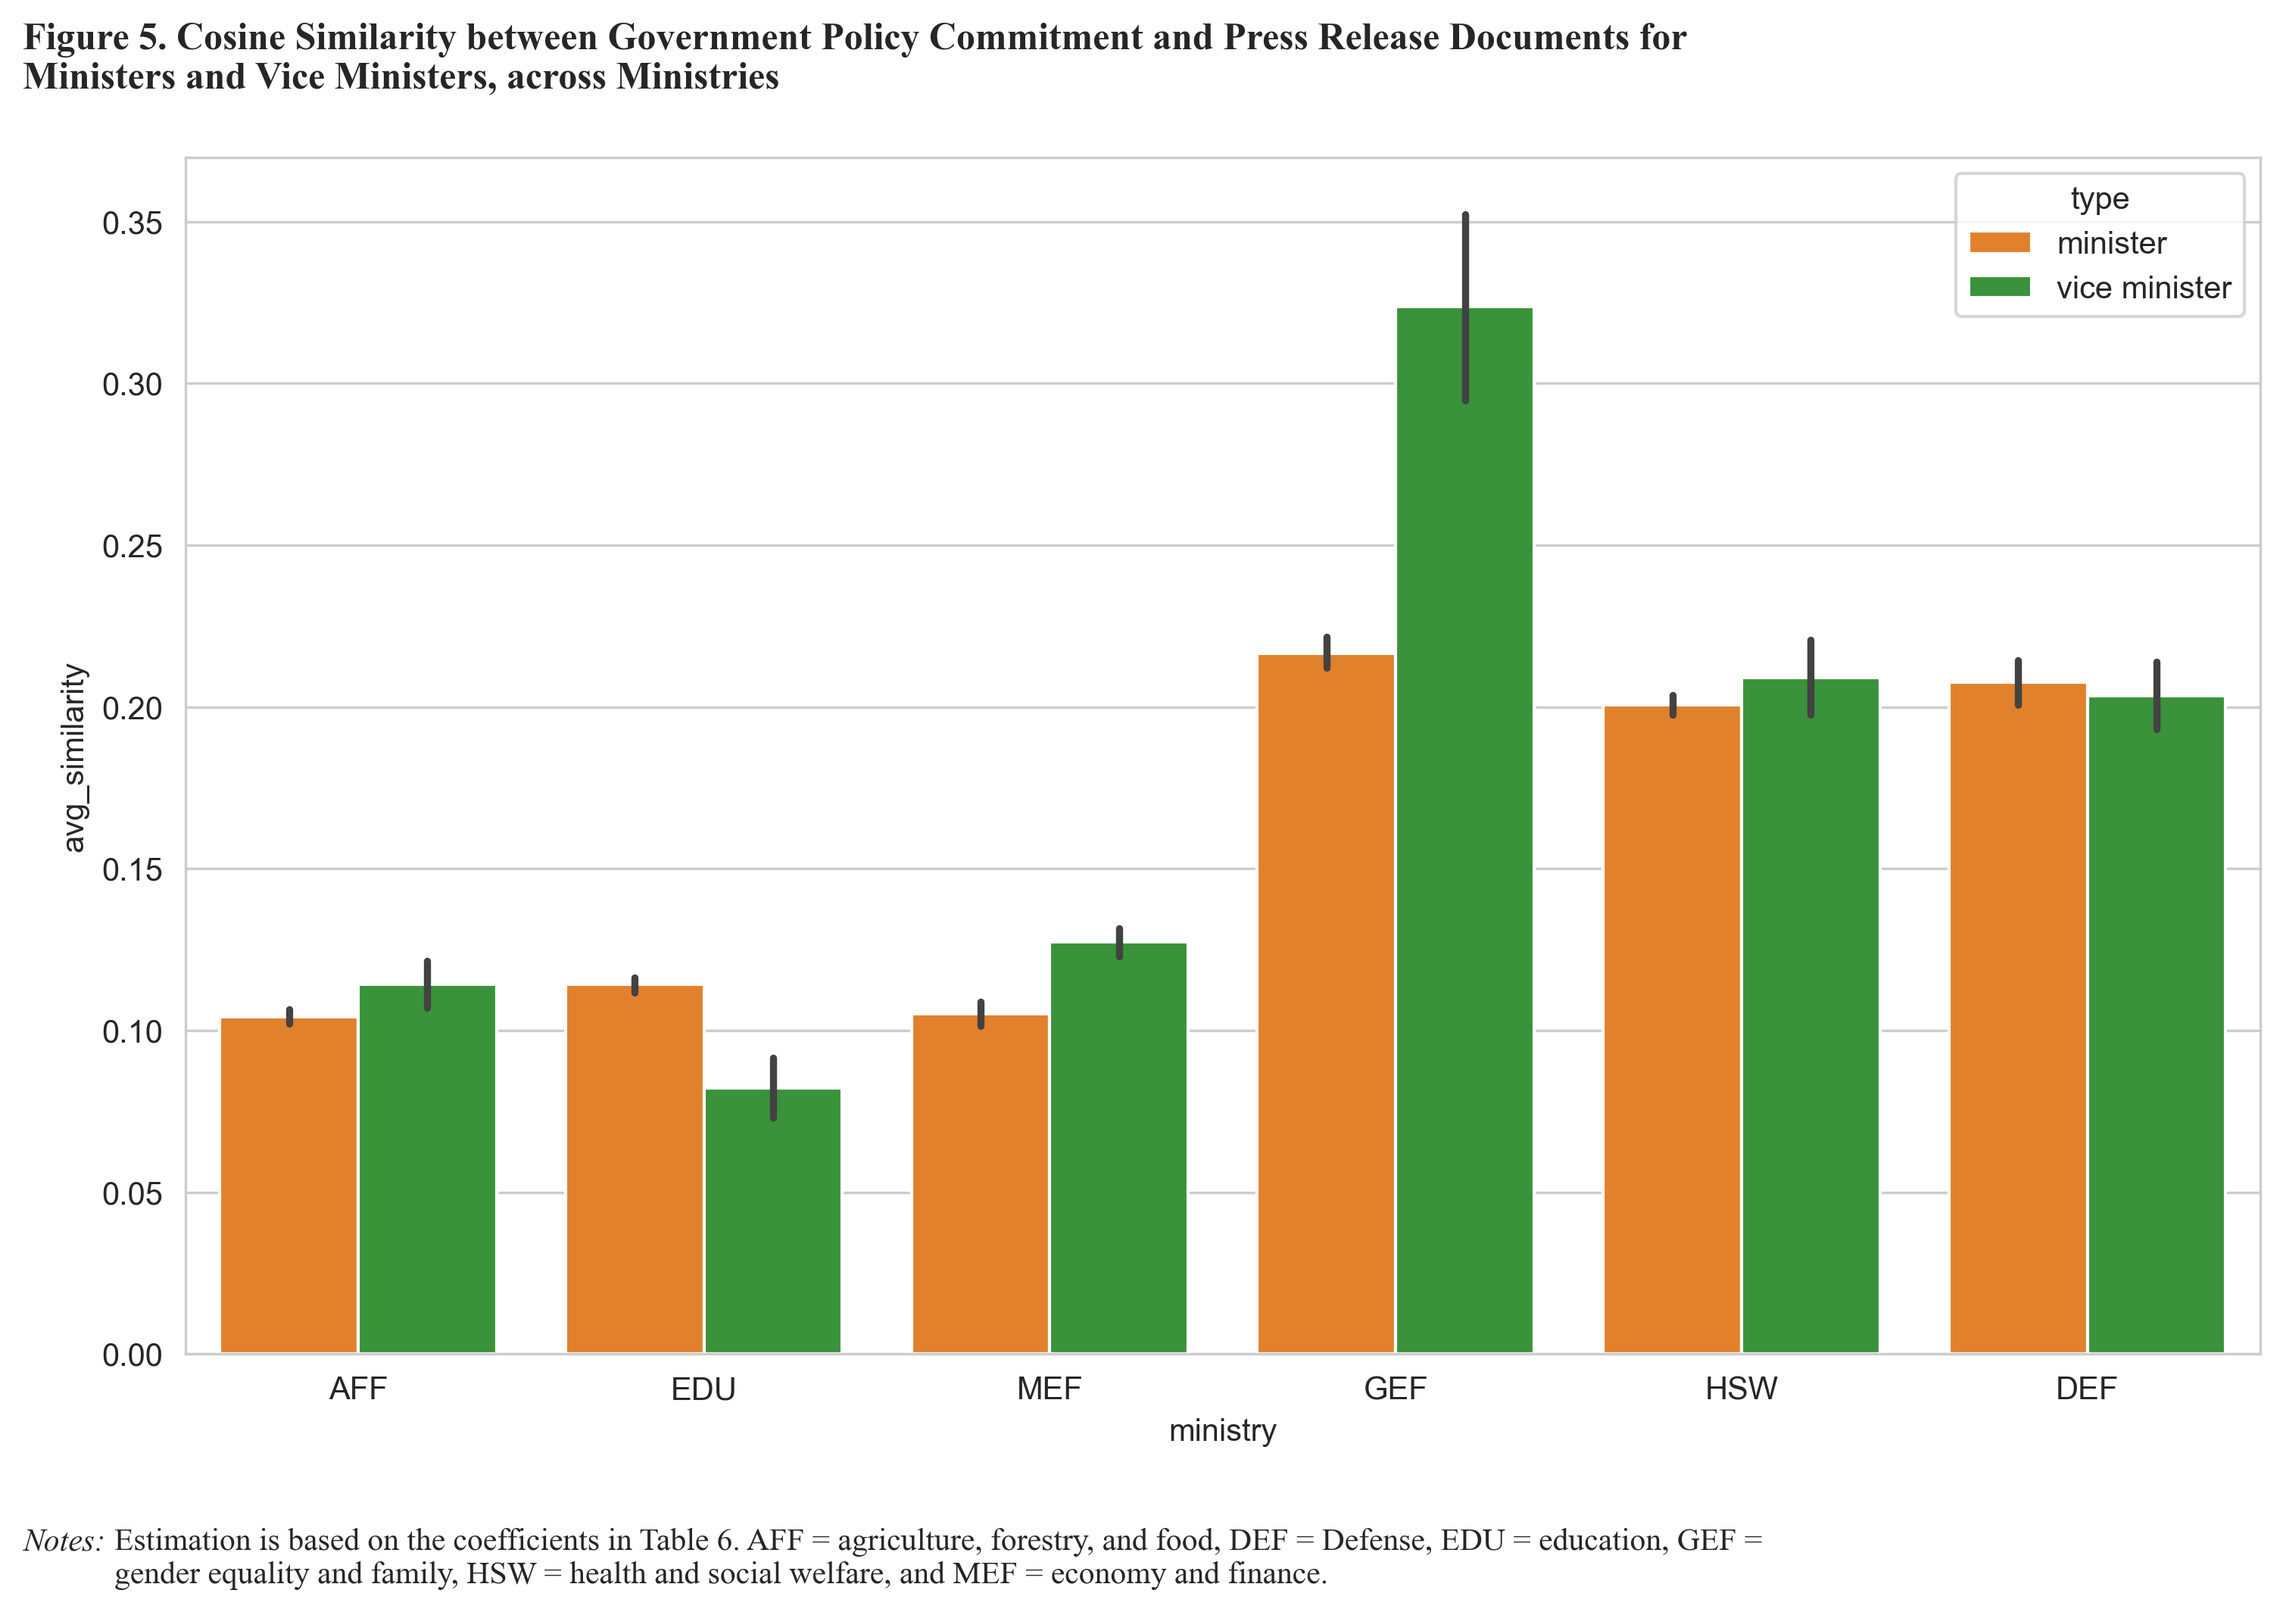
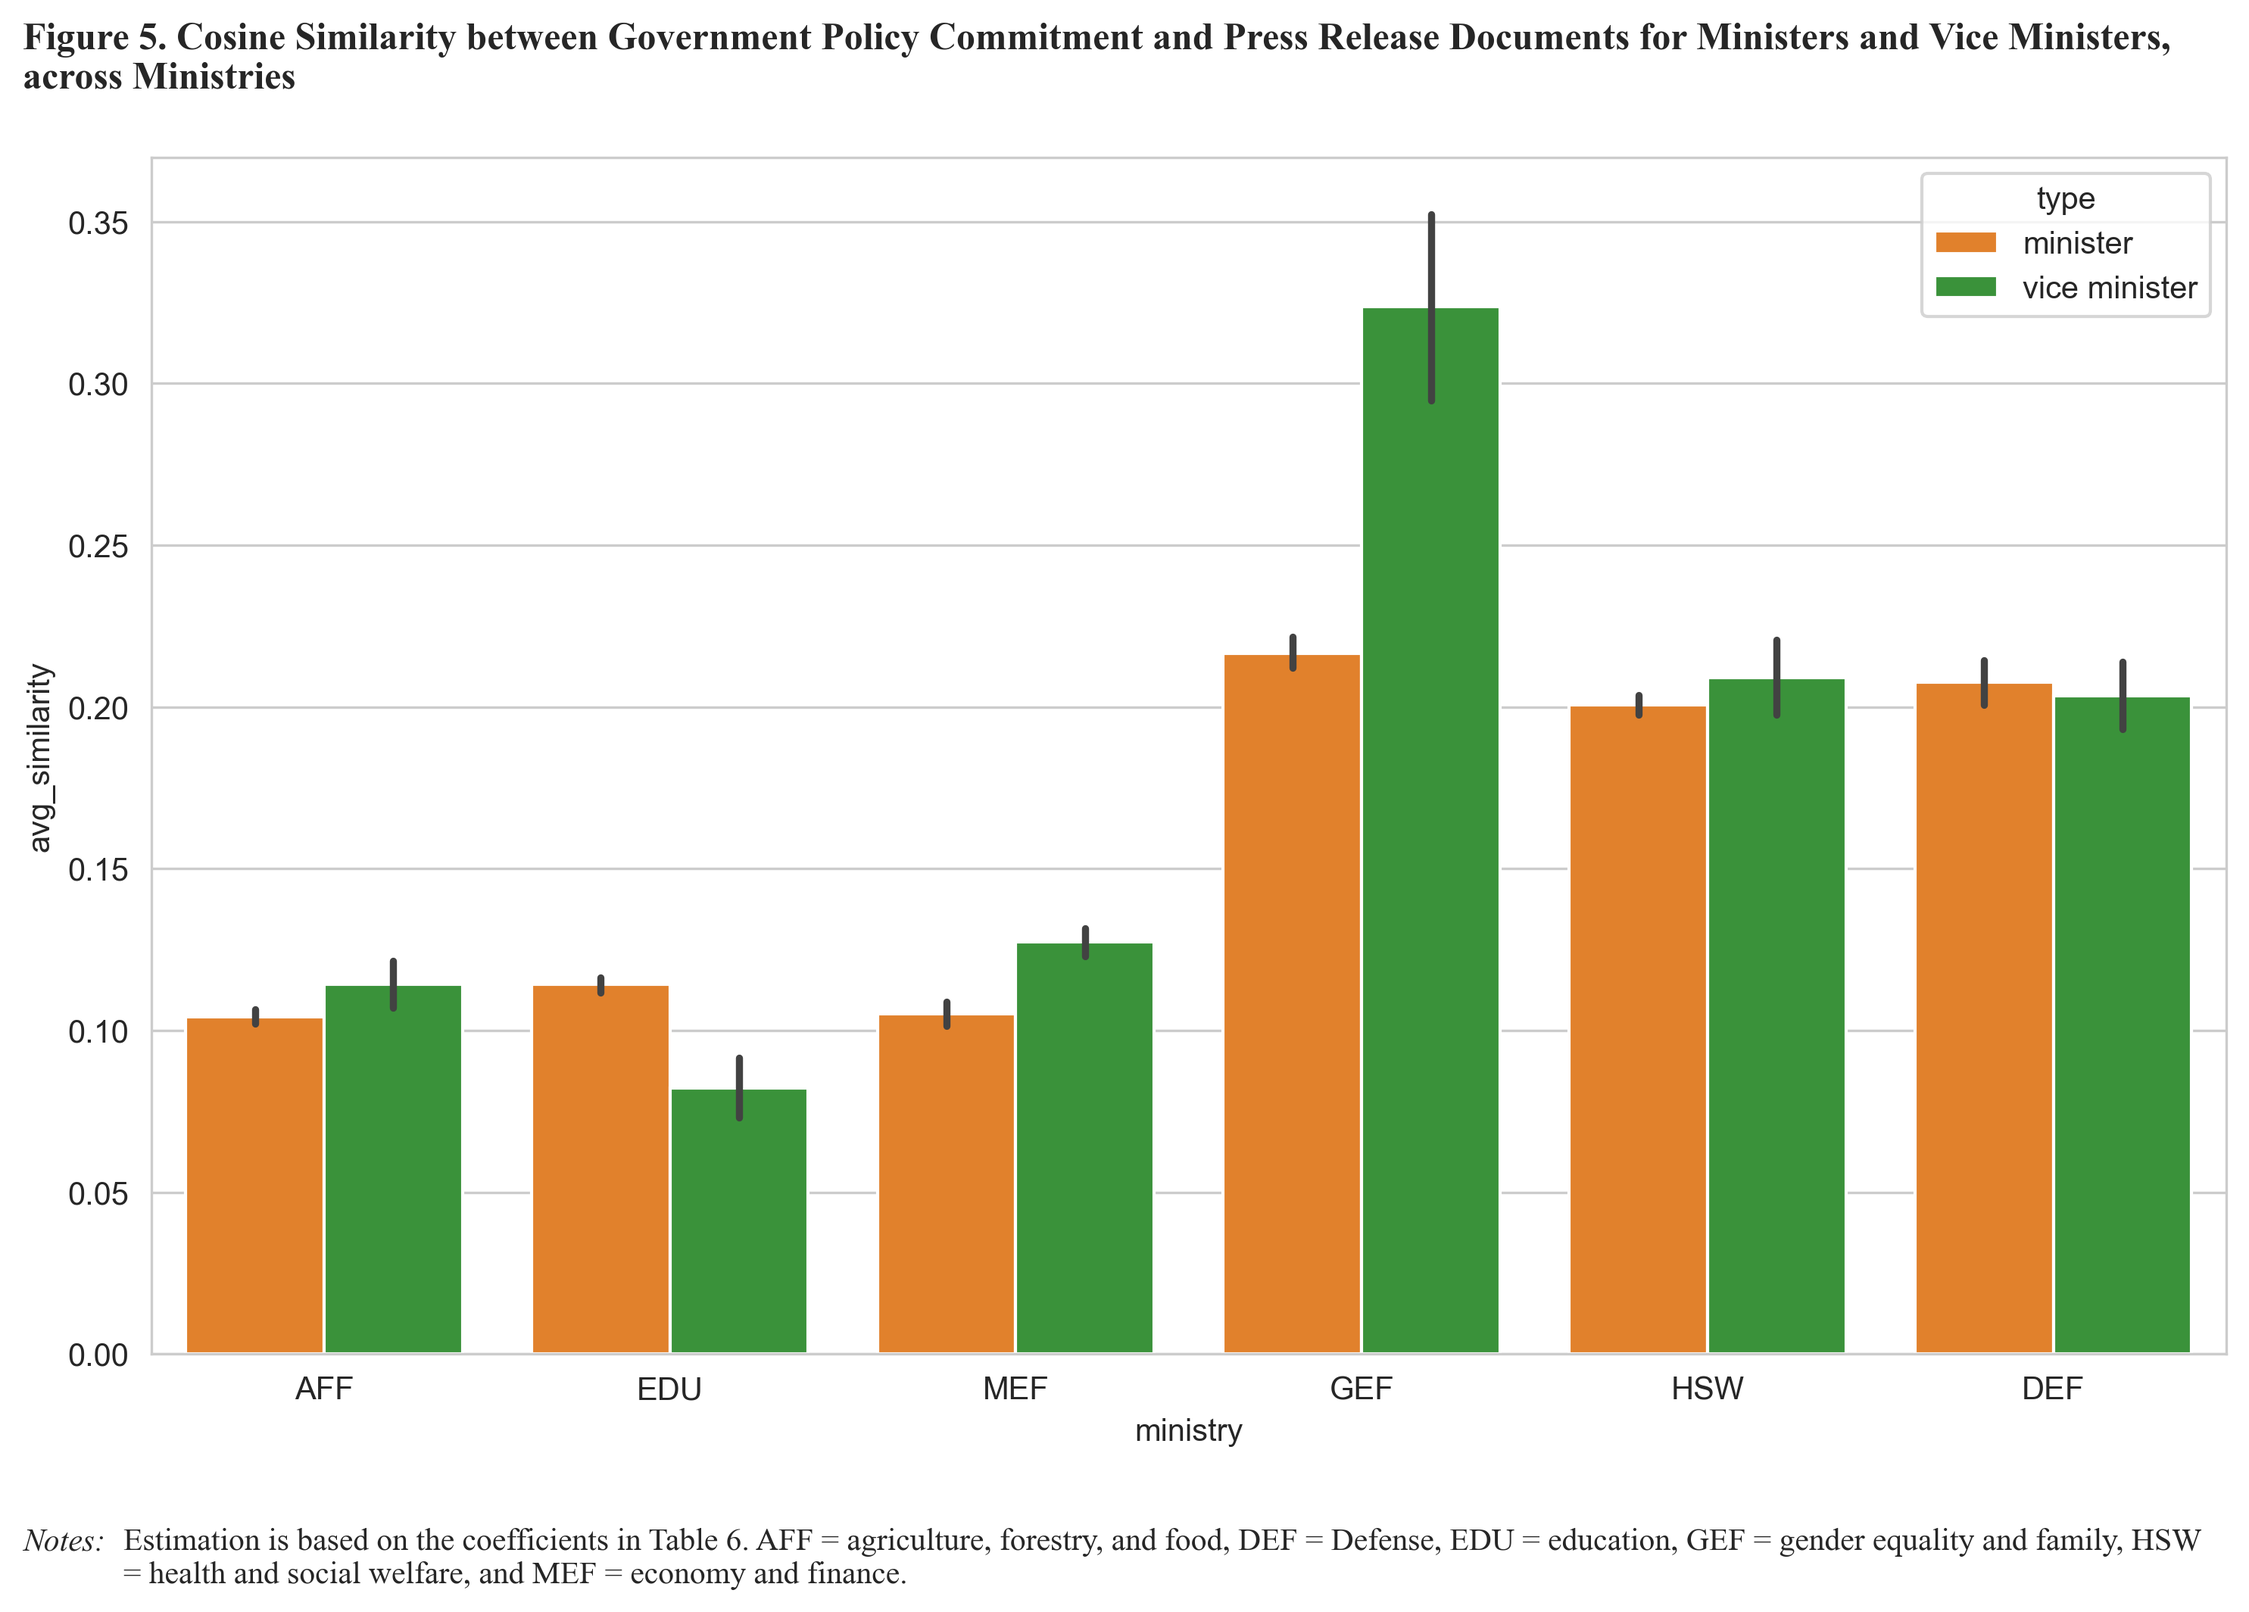
Fit Figure 5-6 captions to figure width; move Figure 6 legend below panels

diff --git a/code/06_umap_figure.py b/code/06_umap_figure.py
@@ -24,6 +24,7 @@ import numpy as np
 import pandas as pd
 import seaborn as sns
 import umap.umap_ as umap
+from matplotlib.transforms import Bbox
 from sklearn.preprocessing import StandardScaler
 
 ROOT = Path(__file__).resolve().parents[1]
@@ -86,22 +87,46 @@ g.set_axis_labels("UMAP Dimension 1", "UMAP Dimension 2")
 legend_data = {k: v for k, v in g._legend_data.items()
                if k in ("policy commitment", "minister", "vice minister")}
 g.add_legend(title="Type", legend_data=legend_data)
+sns.move_legend(g, "upper center", bbox_to_anchor=(0.5, -0.005), ncol=3,
+                title="Type", frameon=False)
 
-g.figure.text(0.0, 1.01, textwrap.fill(
+fig = g.figure
+fig.canvas.draw()
+renderer = fig.canvas.get_renderer()
+tight = Bbox.union([ax.get_tightbbox(renderer) for ax in fig.axes])
+inv = fig.transFigure.inverted()
+x0 = inv.transform((tight.x0, 0))[0]
+
+
+def fit_wrap(text, avail_px, **kw):
+    """Wrap text at the largest line length that still fits within avail_px."""
+    wrapped = text
+    for wrap in range(240, 19, -2):
+        wrapped = textwrap.fill(text, wrap)
+        probe = fig.text(0, 0, wrapped, **kw)
+        w = probe.get_window_extent(renderer).width
+        probe.remove()
+        if w <= avail_px:
+            break
+    return wrapped
+
+
+title_kw = dict(fontsize=12, fontweight="bold", family="Times New Roman")
+fig.text(x0, 1.01, fit_wrap(
     "Figure 6. Policy Commitments and Press Release Documents in UMAP Space",
-    95), ha="left", va="bottom", fontsize=12, fontweight="bold",
-    family="Times New Roman")
-note_label = g.figure.text(0.0, -0.01, "Note:", ha="left", va="top",
-                           fontsize=10, style="italic",
-                           family="Times New Roman")
-g.figure.canvas.draw()
-x_after = g.figure.transFigure.inverted().transform(
-    (note_label.get_window_extent().x1, 0))[0] + 0.004
-g.figure.text(x_after, -0.01, textwrap.fill(
+    tight.width, **title_kw), ha="left", va="bottom", **title_kw)
+
+y_note = inv.transform((0, g.legend.get_window_extent(renderer).y0))[1] - 0.012
+label_kw = dict(fontsize=10, style="italic", family="Times New Roman")
+note_label = fig.text(x0, y_note, "Note:", ha="left", va="top", **label_kw)
+label_w = note_label.get_window_extent(renderer).width + 8
+x_after = inv.transform((tight.x0 + label_w, 0))[0]
+note_kw = dict(fontsize=10, family="Times New Roman")
+fig.text(x_after, y_note, fit_wrap(
     "AFF = agriculture, forestry, and food, DEF = Defense, EDU = education, "
     "GEF = gender equality and family, HSW = health and social welfare, and "
-    "MEF = economy and finance.", 125), ha="left", va="top", fontsize=10,
-    family="Times New Roman")
+    "MEF = economy and finance.", tight.width - label_w, **note_kw),
+    ha="left", va="top", **note_kw)
 g.savefig(FIG / "Figure6_umap_space.png", dpi=300, bbox_inches="tight")
 plt.close("all")
 print("Saved", FIG / "Figure6_umap_space.png")

diff --git a/code/05_similarity_regressions.py b/code/05_similarity_regressions.py
@@ -203,22 +203,43 @@ sns.barplot(x="ministry", y="avg_similarity", hue="type", data=d,
             palette=palette, seed=42)
 plt.tight_layout()
 fig = plt.gcf()
-fig.text(0.0, 1.02, textwrap.fill(
+fig.canvas.draw()
+renderer = fig.canvas.get_renderer()
+tight = fig.axes[0].get_tightbbox(renderer)
+inv = fig.transFigure.inverted()
+x0 = inv.transform((tight.x0, 0))[0]
+
+
+def fit_wrap(text, avail_px, **kw):
+    """Wrap text at the largest line length that still fits within avail_px."""
+    wrapped = text
+    for wrap in range(240, 19, -2):
+        wrapped = textwrap.fill(text, wrap)
+        probe = fig.text(0, 0, wrapped, **kw)
+        w = probe.get_window_extent(renderer).width
+        probe.remove()
+        if w <= avail_px:
+            break
+    return wrapped
+
+
+title_kw = dict(fontsize=12, fontweight="bold", family="Times New Roman")
+fig.text(x0, 1.02, fit_wrap(
     "Figure 5. Cosine Similarity between Government Policy Commitment and "
     "Press Release Documents for Ministers and Vice Ministers, across "
-    "Ministries", 100), ha="left", va="bottom", fontsize=12, fontweight="bold",
-    family="Times New Roman")
-note_label = fig.text(0.0, -0.03, "Notes:", ha="left", va="top", fontsize=10,
-                      style="italic", family="Times New Roman")
-fig.canvas.draw()
-x_after = fig.transFigure.inverted().transform(
-    (note_label.get_window_extent().x1, 0))[0] + 0.004
-fig.text(x_after, -0.03, textwrap.fill(
+    "Ministries", tight.width, **title_kw), ha="left", va="bottom", **title_kw)
+
+label_kw = dict(fontsize=10, style="italic", family="Times New Roman")
+note_label = fig.text(x0, -0.03, "Notes:", ha="left", va="top", **label_kw)
+label_w = note_label.get_window_extent(renderer).width + 8
+x_after = inv.transform((tight.x0 + label_w, 0))[0]
+note_kw = dict(fontsize=10, family="Times New Roman")
+fig.text(x_after, -0.03, fit_wrap(
     "Estimation is based on the coefficients in Table 6. AFF = agriculture, "
     "forestry, and food, DEF = Defense, EDU = education, GEF = gender "
     "equality and family, HSW = health and social welfare, and MEF = economy "
-    "and finance.", 130), ha="left", va="top", fontsize=10,
-    family="Times New Roman")
+    "and finance.", tight.width - label_w, **note_kw),
+    ha="left", va="top", **note_kw)
 plt.savefig(FIG / "Figure5_cosine_similarity_by_ministry.png", dpi=300, bbox_inches="tight")
 plt.close()
 print(f"\nSaved {FIG / 'Figure5_cosine_similarity_by_ministry.png'}")
